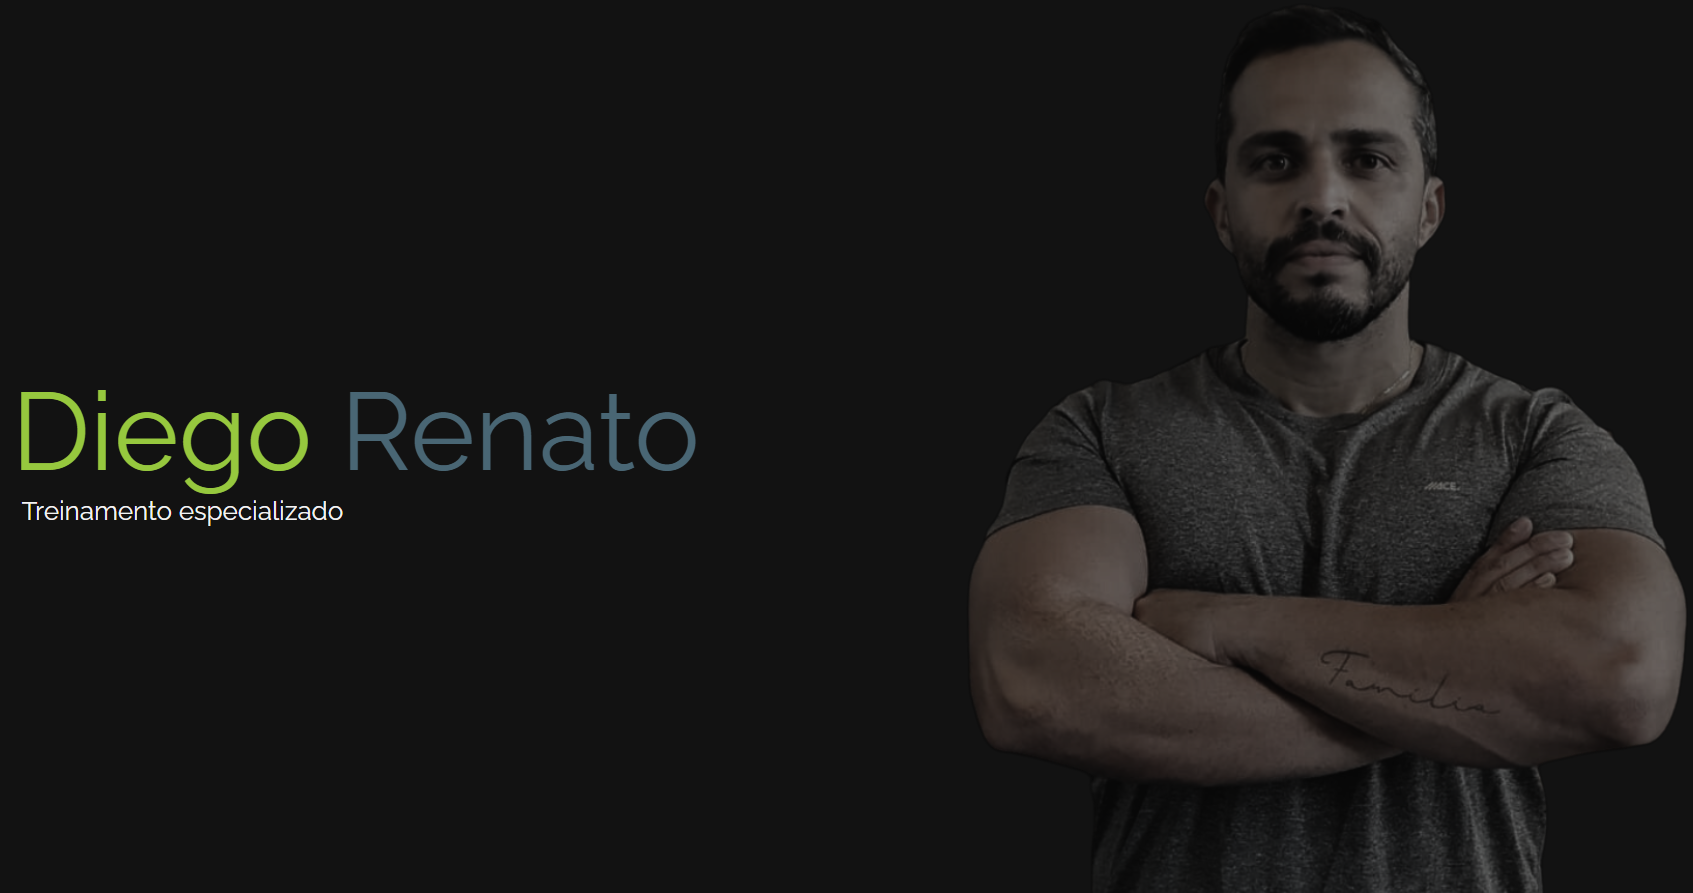
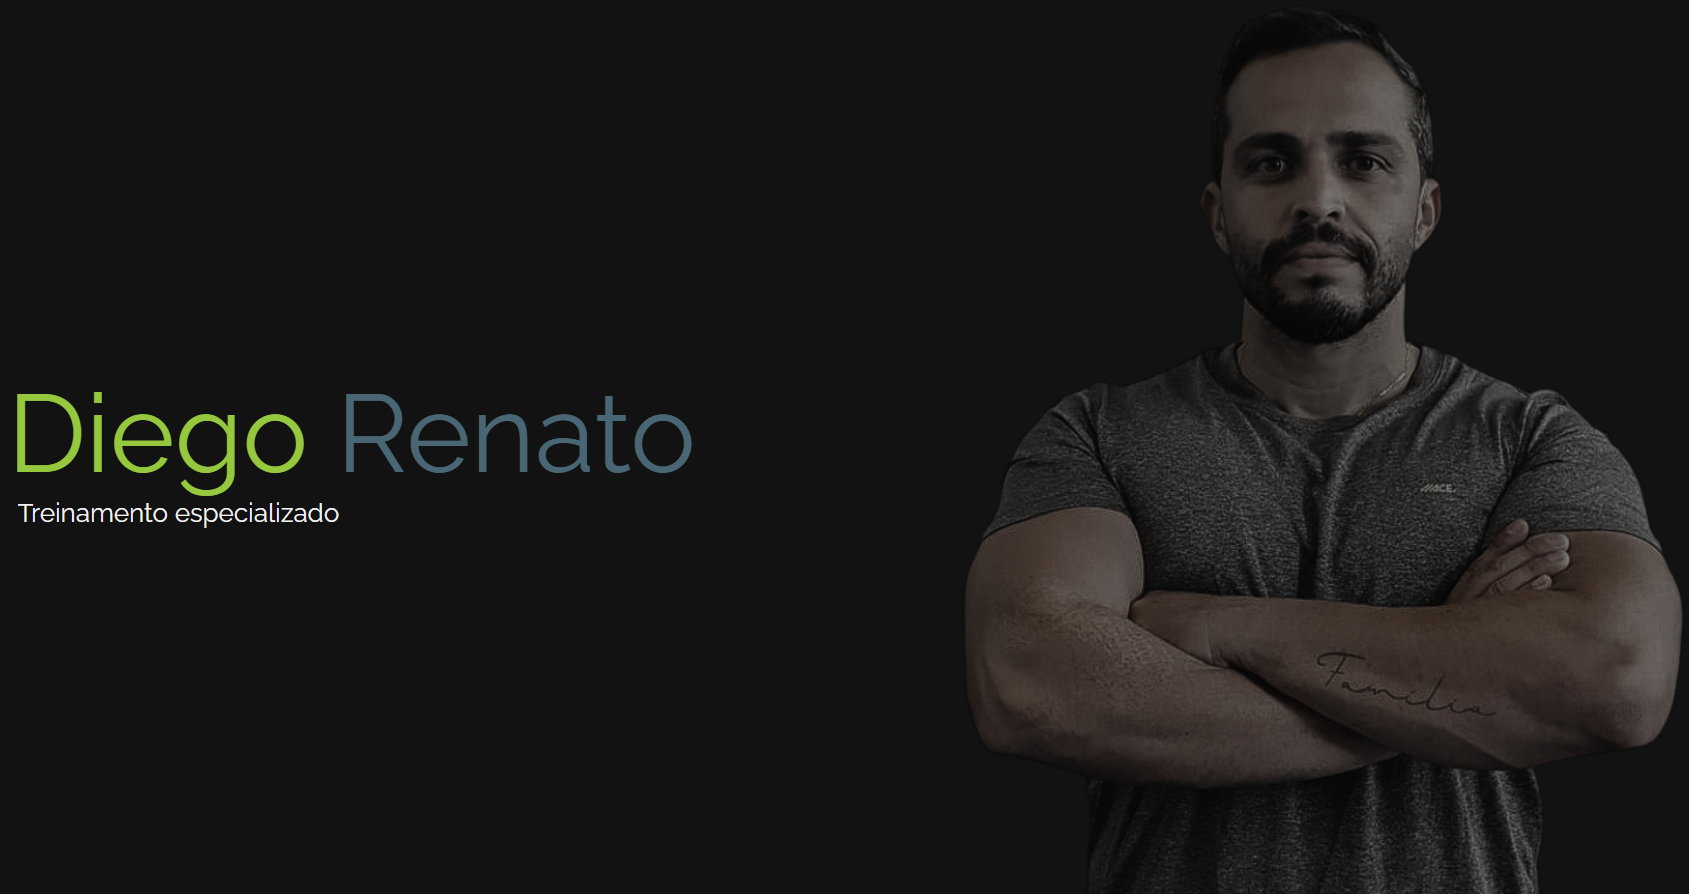
feat: creates a smaller preview and uses it on html meta tag.

Changed region(s): [[0.0, 0.4233, 0.431, 0.6047]]

diff --git a/index.html b/index.html
@@ -4,7 +4,7 @@
     <meta charset="UTF-8" />
     <meta name="title" property="og:title" content="Diego Renato Personal" />
     <meta name="type" property="og:type" content="website" />
-    <meta name="image" property="og:image" content="/preview.png" />
+    <meta name="image" property="og:image" content="/preview_smaller.png" />
     <meta
       name="url"
       property="og:url"
